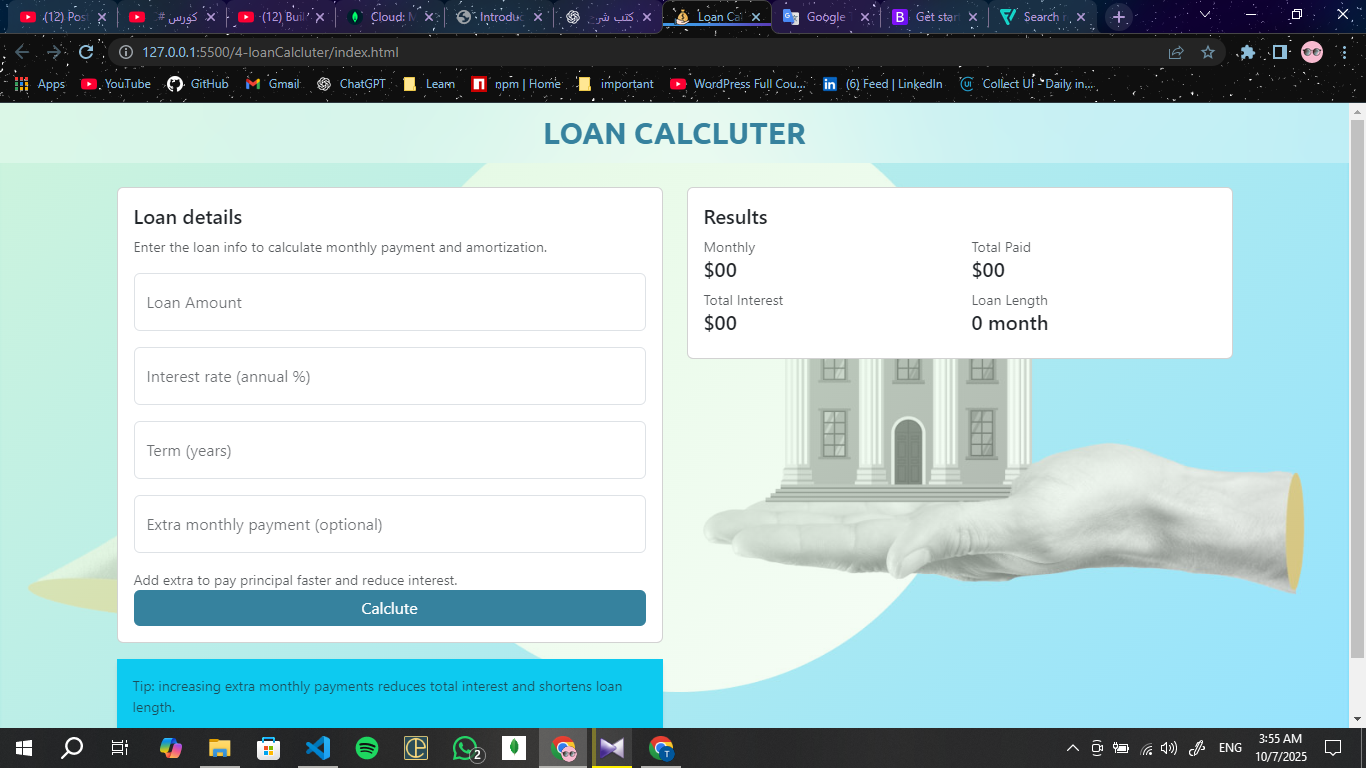
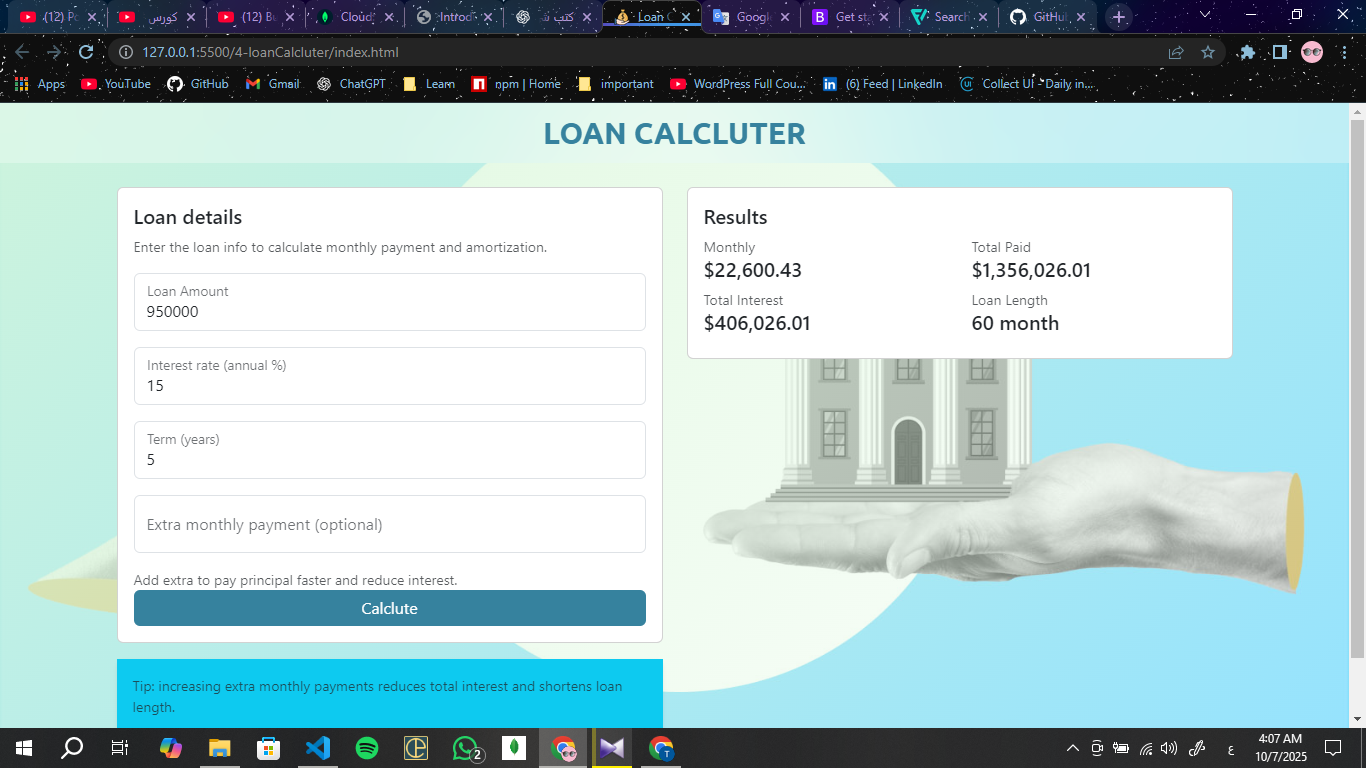
Added Loan Calcluter

diff --git a/4-loanCalcluter/script.js b/4-loanCalcluter/script.js
@@ -1,36 +1,3 @@
-// let loanAmount = $("#loanAmount");
-// let interestRate = $("#interestRate");
-// let term = $("#term");
-// let monthly = $("#monthly");
-
-
-
-
-// function calc() {
-//     let P = parseFloat(loanAmount.val());
-//     let annualRate = parseFloat(interestRate.val());
-//     let years = parseFloat(term.val());
-//     if (!P || !annualRate || !years) {
-//         $("#outMonthly").text("0.00");
-//         $("#totalPaid").text("0.00");
-//         $("#totalInterest").text("0.00");
-//         $("#loanLength").text("0 ");
-//         return;
-//     }
-
-//     let monthlyRate = annualRate / 100 / 12
-//     let totalMPayments = 12 * years
-//     let installment = (P * monthlyRate * Math.pow(1 + monthlyRate, totalMPayments)) / (Math.pow(1 + monthlyRate, totalMPayments) - 1);
-//     let totalPaid = installment * totalMPayments;
-//     let totalInterest = totalPaid - P;
-
-//     $("#totalPaid").text(totalPaid.toFixed(2));
-//     $("#outMonthly").text(installment.toFixed(2));
-//     $("#totalInterest").text(totalInterest.toFixed(2));
-//     $("#loanLength").text(totalMPayments);
-
-// }
-// $("input").on("input", calc);
 let loanAmount = $("#loanAmount");
 let interestRate = $("#interestRate");
 let term = $("#term");
@@ -42,7 +9,6 @@ function calc() {
     let years = parseFloat(term.val());
     let extra = parseFloat(extraMonthly.val()) || 0;
 
-    // لو المستخدم سايب الخانات فاضية
     if (!P || !annualRate || !years) {
         $("#outMonthly").text("0.00");
         $("#totalPaid").text("0.00");
@@ -54,21 +20,21 @@ function calc() {
     let monthlyRate = annualRate / 100 / 12;
     let totalPayments = years * 12;
 
-    // المعادلة الأساسية للقسط الشهري
+
     let installment = (P * monthlyRate * Math.pow(1 + monthlyRate, totalPayments)) /
         (Math.pow(1 + monthlyRate, totalPayments) - 1);
 
-    installment += extra; // إضافة الدفع الإضافي لو المستخدم كتب حاجة
+    installment += extra;
 
     let totalPaid = installment * totalPayments;
     let totalInterest = totalPaid - P;
 
-    // عرض النتائج
-    $("#outMonthly").text(installment.toFixed(2));
-    $("#totalPaid").text(totalPaid.toFixed(2));
-    $("#totalInterest").text(totalInterest.toFixed(2));
-    $("#loanLength").text(`${years * 12}`); // عدد الشهور
+
+    $("#outMonthly").text(installment.toLocaleString(undefined, { minimumFractionDigits: 2, maximumFractionDigits: 2 }));
+    $("#totalPaid").text(totalPaid.toLocaleString(undefined, { minimumFractionDigits: 2, maximumFractionDigits: 2 }));
+    $("#totalInterest").text(totalInterest.toLocaleString(undefined, { minimumFractionDigits: 2, maximumFractionDigits: 2 }));
+    $("#loanLength").text(`${totalPayments.toLocaleString()} `);
 }
 
-// عشان لو المستخدم بيكتب القيم أثناء الكتابة
+
 $("input").on("input", calc);
